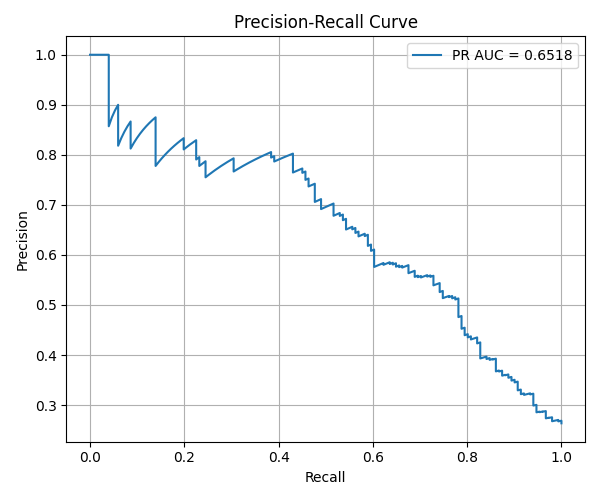
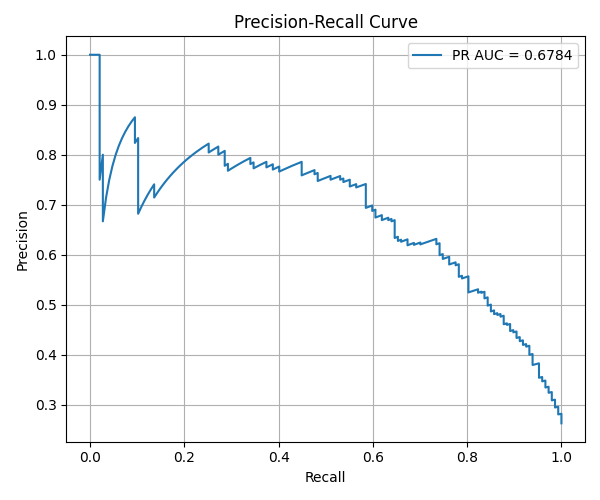
ran the model with a transformer layer, very slow

diff --git a/src/scripts/prepare_training_data.py b/src/scripts/prepare_training_data.py
@@ -1,3 +1,4 @@
+import math
 import pickle
 
 import matplotlib.pyplot as plt
@@ -87,6 +88,8 @@ class NeuralNetwork(nn.Module):
         kernel_size,
         num_classes,
         dropout=0.3,
+        nhead=4,
+        num_layers=1,
     ):
         super().__init__()
         self.embeddings = nn.ModuleList(
@@ -100,6 +103,15 @@ class NeuralNetwork(nn.Module):
             out_channels=conv_out_channels,
             kernel_size=kernel_size,
         )
+        # self.transformer = nn.TransformerEncoder(
+        #     nn.TransformerEncoderLayer(
+        #         d_model=conv_out_channels,
+        #         nhead=nhead,
+        #         dropout=dropout,
+        #         batch_first=True,
+        #     ),
+        #     num_layers=num_layers,
+        # )
         self.relu = nn.ReLU()
         self.global_pool = nn.AdaptiveAvgPool1d(1)
         self.dropout = nn.Dropout(dropout)
@@ -115,6 +127,9 @@ class NeuralNetwork(nn.Module):
         x_emb = x_emb.permute(0, 2, 1)
         x = self.conv(x_emb)
         x = self.relu(x)
+        # x = x.permute(0, 2, 1)
+        # x = self.transformer(x)
+        # x = x.permute(0, 2, 1)
         x = self.global_pool(x)
         x = x.squeeze(-1)
         x = self.dropout(x)

diff --git a/src/scripts/prepare_raw_data.py b/src/scripts/prepare_raw_data.py
@@ -7,6 +7,7 @@ import pandas as pd
 
 def main():
     df = pd.read_csv("./data/raw_data/llps_data_ppmclab.tsv", delimiter="\t")
+    df = df[df["Full.seq"].apply(len) <= 2000].copy()
 
     df.loc[~df["Datasets"].isin(["NP", "ND"]), "PS"] = 1
     df.loc[df["Datasets"].isin(["NP", "ND"]), "PS"] = 0
